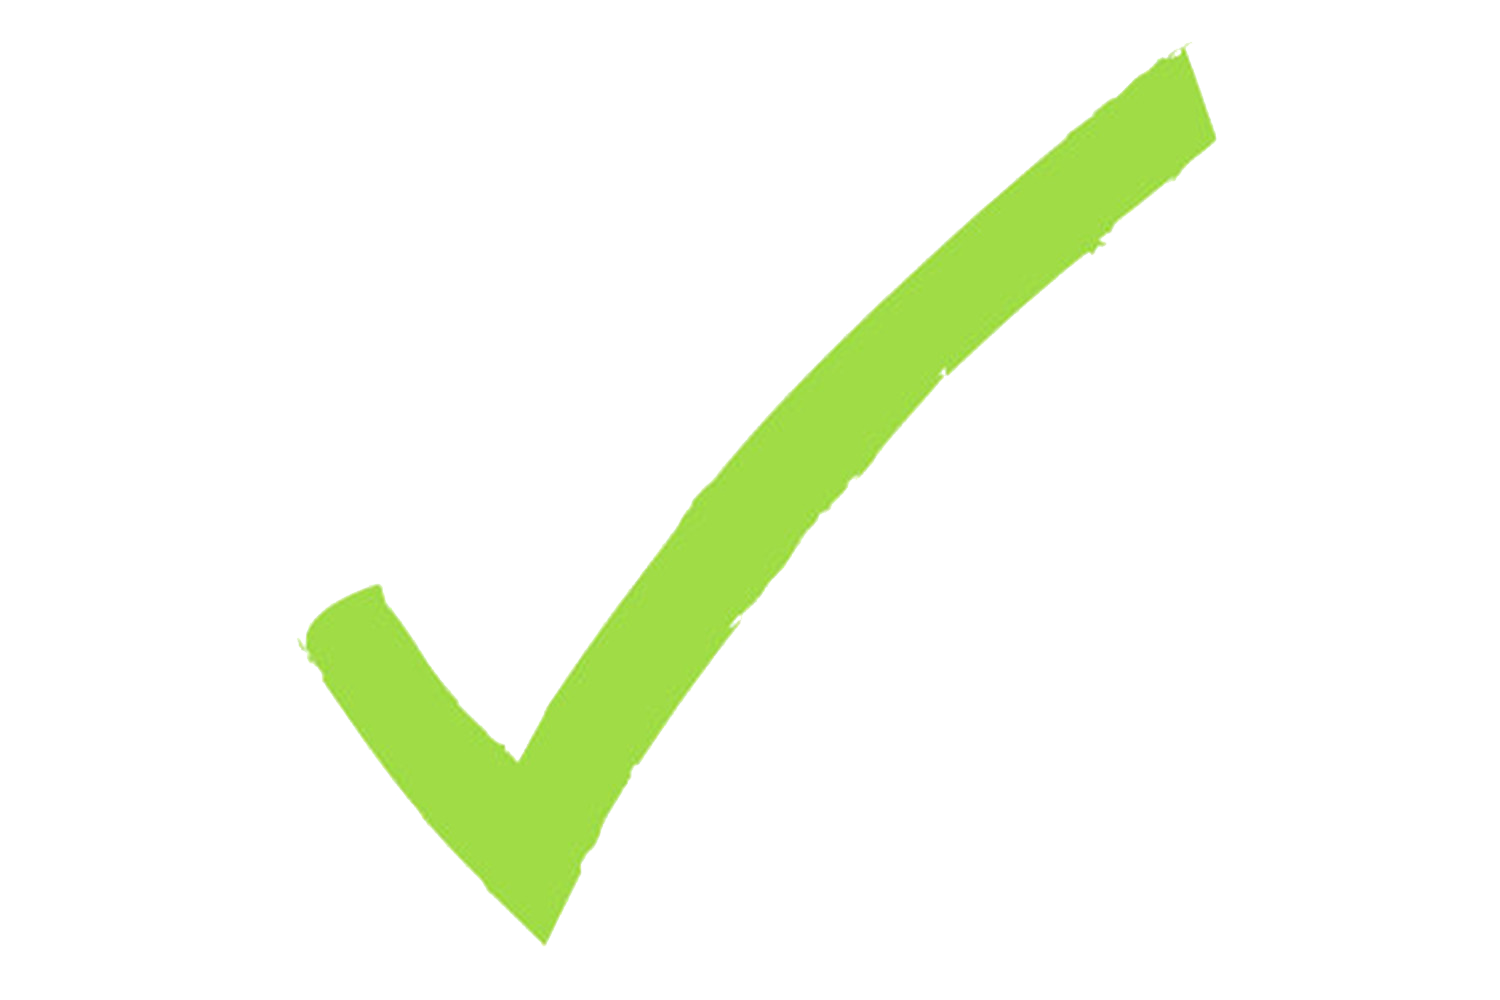
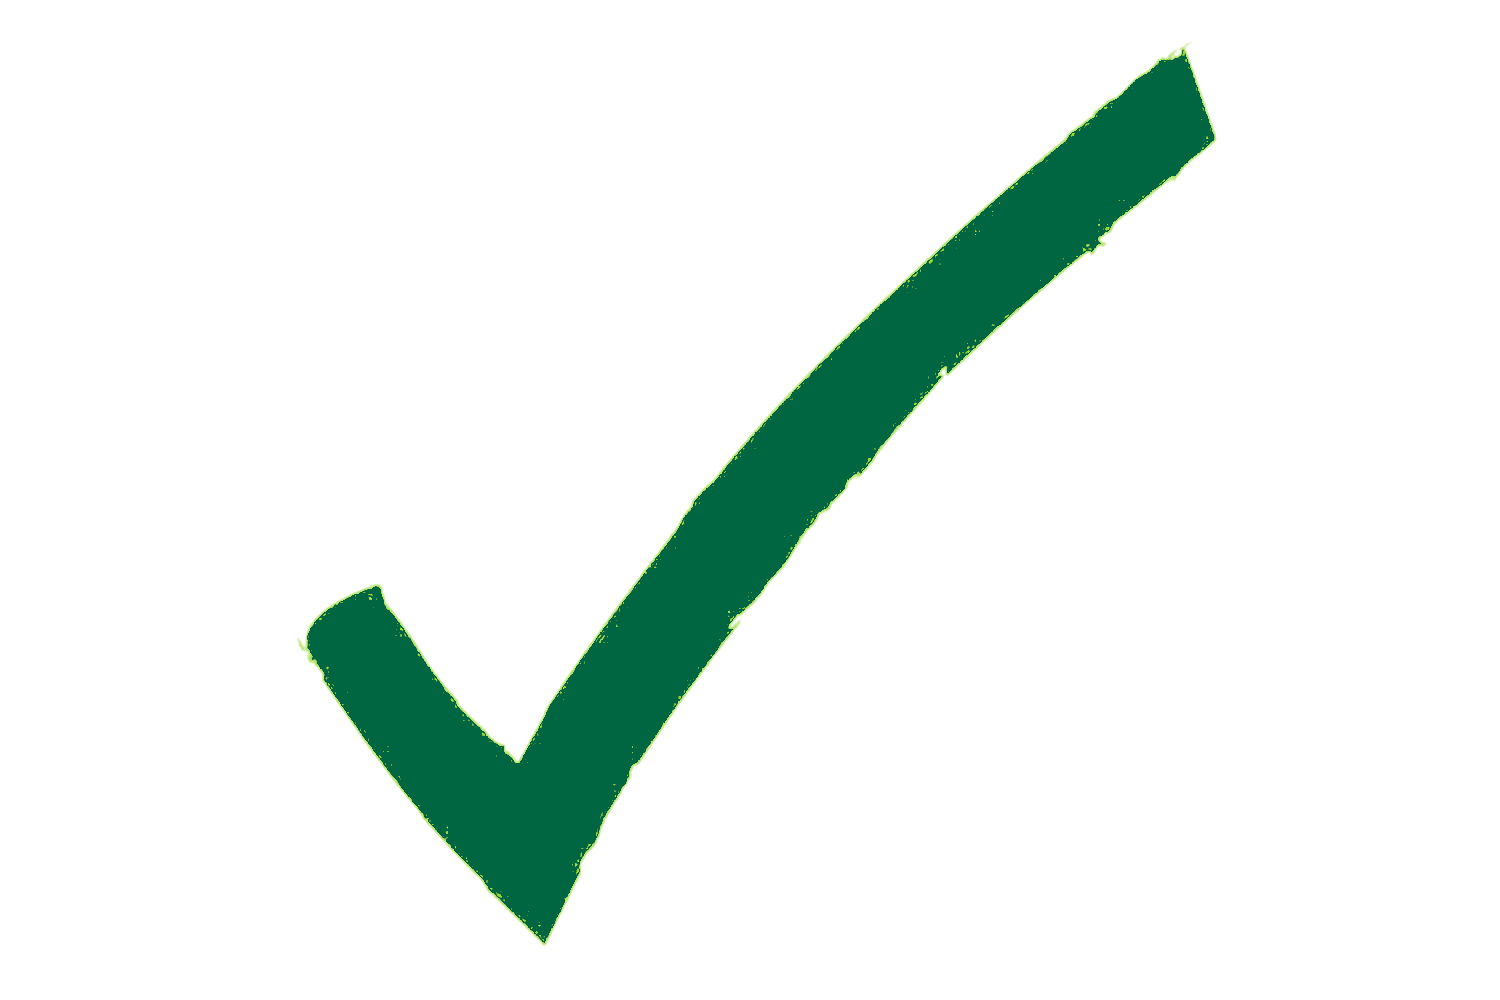
Mudanças no visual do dashboard e no componente Feedback

Changed region(s): [[0.184, 0.062, 0.828, 0.93]]

diff --git a/src/components/Dashboards/Dashboards.js b/src/components/Dashboards/Dashboards.js
@@ -1,5 +1,6 @@
 import React, { useEffect, useState } from 'react';
 import './Dashboards.css';
+import logo from '../../assets/logo1.png';
 import Scrollbar from 'react-scrollbars-custom';
 import { useHistory } from 'react-router-dom';
 
@@ -12,13 +13,15 @@ export default function Dashboards(props) {
         return url.split('/')[2];
     }
 
+    
     useEffect(() => {
         if(tipoUsuario === 'user-prova' && history.location.pathname !== '/prova/encerrar-prova'){
             mudaAtividade(formatarUrlParaAcao(history.location.pathname));
-        }else{
+        }else if(props.acoesUsuario !== undefined){
             mudaAtividade(history.location.pathname);
         }
     }, [history.location.pathname, acao]);
+    
     
     const mudaAtividade = (e) => {
         history.push(e);
@@ -30,12 +33,17 @@ export default function Dashboards(props) {
         }
         const elemento = document.getElementById(e);
         if(elemento !== null && elemento !== undefined)
-            elemento.classList.add('atual');
+        elemento.classList.add('atual');
     }
+    
+    if(props.acoesUsuario === undefined) return <div></div>;
 
     return (
         <div className="container-dash">
             <Scrollbar>
+                <div className="container-log-dash">
+                    <img src={logo} id="logo-dashboard"/>
+                </div>
                 <ul>
                     {props.acoesUsuario.map((e) => <li id={e.acao} onClick={() => mudaAtividade(e.acao)}>{e.texto}</li>)}
                 </ul>

diff --git a/src/routes.js b/src/routes.js
@@ -21,14 +21,13 @@ import ControllerMeusResultados from './controlers/ControllerMeusResultados';
 import ControllerAlunosCadastrados from './controlers/ControllerAlunosCadastrados';
 
 export default function Routes() {
-    //localStorage.clear();
     return (
         <BrowserRouter>
             <Route path="/" exact component={Login}/>
             <Route path="/autocadastro" exact component={Autocadastro}/>
             <Route path="/:slug" exact component={ControllerDashboard} />
-            {/* <Route path="/:slug/:slug" exact component={ControllerDashboard} /> */}
-            <Route path="/home" exact component={Feedback} />
+            
+            <Route path="/home" exact component={Home} />
 
             <Route path="/cadastrar-prova" exact component={CadastroProva} />
             <Route path="/cadastrar-questao" exact component={CadastroQuestoes} />
@@ -43,7 +42,9 @@ export default function Routes() {
 
             <Route path="/inserir-token" exact component={InserirToken} />
             <Route path="/prova/:slug" exact component={ControllerProva} />
+            <Route path="/editar-perfil" exact component={Home} />
             <Route path="/meus-resultados" exact component={ControllerMeusResultados} />
+            <Route path="/ranking-prova/:slug" exact component={ControllerDashboard} />
             <Route path="/ranking-prova/:slug" exact component={ControllerMeusResultados} />
 
             <Route path="/sair" exact component={Logout} />

diff --git a/src/components/CadastroProva/CadastroProva.js b/src/components/CadastroProva/CadastroProva.js
@@ -8,6 +8,8 @@ import { useHistory } from 'react-router-dom';
 
 
 
+//uso essa variável pra renderizar imagem no componente feedback
+let imgFeedback;
 export default function CadastroProva(props) {
     let history = useHistory();
     /* console.log(props.prova.id) */
@@ -79,8 +81,10 @@ export default function CadastroProva(props) {
         
         setEspera(false);
         if (response) {
+            imgFeedback = 'certo';
             setFeedback('Prova cadastrada com sucesso!');
         } else {
+            imgFeedback = 'errado';
             setFeedback('Problema ao cadastrar prova!');
         }
     }
@@ -106,8 +110,10 @@ export default function CadastroProva(props) {
 
         setEspera(false);
         if (response) {
+            imgFeedback = 'certo';
             setFeedback('Prova alterada com sucesso!');
         } else {
+            imgFeedback = 'errado';
             setFeedback('Problema ao alterar prova!');
         }
     }
@@ -150,7 +156,7 @@ export default function CadastroProva(props) {
                 limparCampos();
             setFeedback('');
         }, 2000)
-        return <Feedback msgPrimaria={feedback}/>
+        return <Feedback msgPrimaria={feedback} img={imgFeedback}/>
     }
 
     if (espera) return <TelaEspera />

diff --git a/src/components/Prova/Prova.js b/src/components/Prova/Prova.js
@@ -84,10 +84,7 @@ export default function Prova(props) {
             }
             idQuestao = props.questao[numeroQuestao].id;
         }
-        //props.mudarAtividade('questao-' + numeroQuestao);
         //separa a url para gerenciar o estado
-        //setAcao(formatarUrlParaAcao(history.location.pathname));
-        //separa o estado para trocar o número da questão
         if (history.location.pathname !== '/prova/encerrar-prova')
             setNumero(setarNumeroPelaUrl(formatarUrlParaAcao(history.location.pathname)));
         else {
@@ -175,7 +172,7 @@ export default function Prova(props) {
         const mensagemPrimaria = "Parabéns " + localStorage.getItem('nomeUsuario') + ", você concluiu a prova!";
         const mensagemSecundaria = "Você acertou " + notaAluno + "% das questões!";
         setTimeout(() => props.history.push('/home'), 3000);
-        return <Feedback msgPrimaria={mensagemPrimaria} msgSecundaria={mensagemSecundaria} />
+        return <Feedback msgPrimaria={mensagemPrimaria} msgSecundaria={mensagemSecundaria} img='certo'/>
     }
 
     if (execucao)

diff --git a/src/components/Feedback/Feedback.js b/src/components/Feedback/Feedback.js
@@ -1,16 +1,27 @@
 import React from 'react';
 import './Feedback.css';
-import certo from '../../assets/certo2.png';
+import certo from '../../assets/certo.png';
+import errado from '../../assets/errado.png';
 
 export default function Feedback(props) {
+    let imagem;
+
+    if(props.img === 'certo'){
+        imagem = certo;
+    }else if(props.img === 'errado'){
+        imagem = errado;
+    }else {
+        imagem = null;
+    }
 
     return (
         <div className="container-resposta">
             <div className="container-texto">
-                <h1>{props.msgPrimaria}</h1>
-                <h2>{props.msgSecundaria}</h2>
-                {/* <button className="button" onClick={props.funcaoBotao}>{props.textoBotao}</button> */}
-                <img id="img-feedback" src={certo} />
+                {imagem !== null && <img id="img-feedback" src={imagem} />}
+                <div>
+                    <h1>{props.msgPrimaria}</h1>
+                    <h2>{props.msgSecundaria}</h2>
+                </div>
             </div>
         </div>
     );

diff --git a/src/components/CadastroQuestoes/CadastroQuestoes.js b/src/components/CadastroQuestoes/CadastroQuestoes.js
@@ -4,6 +4,8 @@ import api from '../../services/api';
 import Feedback from '../Feedback/Feedback';
 import TelaEspera from '../TelaEspera/TelaEspera';
 
+//uso essa variável pra renderizar imagem no componente feedback
+let imgFeedback;
 export default function CadastroQuestoes() {
     const [enunciado, setEnunciado] = useState(''),
         [alternativa1, setAlternativa1] = useState(''),
@@ -55,8 +57,10 @@ export default function CadastroQuestoes() {
 
         setEspera(false);
         if (response.data.Erro) {
+            imgFeedback = 'errado';
             setFeedback(response.data.Erro)
         } else {
+            imgFeedback = 'certo';
             setFeedback('Questão cadastrada com sucesso');
             limpar();
         }
@@ -75,7 +79,7 @@ export default function CadastroQuestoes() {
 
     if (feedback !== '') {
         setTimeout(() => setFeedback(''), 2000)
-        return <Feedback msgPrimaria={feedback} />
+        return <Feedback msgPrimaria={feedback} img={imgFeedback} />
     }
 
     if (espera) return <TelaEspera />

diff --git a/src/components/Autocadastro/Autocadastro.js b/src/components/Autocadastro/Autocadastro.js
@@ -9,6 +9,8 @@ import logo from '../../assets/logo1.png';
 import TelaEspera from '../TelaEspera/TelaEspera';
 import Feedback from '../Feedback/Feedback';
 
+//uso essa variável pra renderizar imagem no componente feedback
+let imgFeedback;
 export default function Autocadastro({ history }) {
     const [nome, setNome] = useState(''),
         [email, setEmail] = useState(''),
@@ -50,8 +52,10 @@ export default function Autocadastro({ history }) {
 
         setEspera(false)
         if (response.data.Erro) {
+            imgFeedback = 'errado';
             setFeedback(response.data.Erro);
         } else {
+            imgFeedback = 'certo';
             setFeedback('Usuário cadastrado com sucesso! Faça o login!');
         }
 
@@ -70,7 +74,7 @@ export default function Autocadastro({ history }) {
             }
             setFeedback('');
         }, 2000)
-        return <Feedback msgPrimaria={feedback}/>
+        return <Feedback msgPrimaria={feedback} img={imgFeedback}/>
     } 
 
     return (

diff --git a/src/components/Feedback/Feedback.css b/src/components/Feedback/Feedback.css
@@ -8,6 +8,7 @@
 
 .container-texto {
     border-radius: 1em;
+    display: flex;
     text-align: center;
     padding: 2em;
     background-color: rgba(245, 245, 245, 0.5);
@@ -20,21 +21,8 @@
     margin: 0.5em;
 }
 
-.button {
-    margin-top: 2em;
-    width: 100%; 
-    border: 0;
-    border-radius: 4px;
-    height: 48px;
-    font-size: 25px; 
-    background: #006641;
-    font-weight: bold;
-    color: #FFF;
-    cursor: pointer;
-    font-family: 'Asap', sans-serif;    
-}
-
 #img-feedback {
-    width: 20em;
-    height: 20em;
+    width: 5em;
+    height: 3em;
+    margin-top: 1em;
 }

diff --git a/src/components/Dashboards/Dashboards.css b/src/components/Dashboards/Dashboards.css
@@ -5,17 +5,27 @@
     flex-direction: column;
     justify-content: flex-start;
     align-items: flex-start;
-    padding-top: 2em;
+    padding-top: 0em;
     background-color: rgba(245, 245, 245, 1);
+}
+.container-log-dash {
+    display: flex;
+    justify-content: center;
+}
+#logo-dashboard {
+    width: 8em;
+    height: 8em;
+    align-self: center;
 }
 
 ul {
     width: 100%;
+    margin-top: 1em;
 }
 
 ul li {
     list-style: none;
-    padding: 1.5em 2em;
+    padding: 1em 2em;
     font-size: 16pt;
     font-weight: 400;
 }

diff --git a/src/controlers/ControllerProvasAbertas.js b/src/controlers/ControllerProvasAbertas.js
@@ -43,6 +43,7 @@ export default function ControllerProvasAbertas({ history }){
             <Feedback 
                 msgPrimaria="Prova excluída com sucesso!"
                 funcaoBotao={confirmarFeedback}
+                img={'certo'}
                 />
         );
     }

diff --git a/src/components/Dashboards/ControllerDashboard.js b/src/components/Dashboards/ControllerDashboard.js
@@ -24,8 +24,6 @@ export default function ControllerDashboard(props) {
     } else if (tipoUsuario === 'user-prova') {
         trocarAcao = (e) => setAcao(e);
         acoes = acoesProva();
-    } else {
-        history.push('/');
     }
 
     return (

diff --git a/src/components/InfoProva/InfoProva.css b/src/components/InfoProva/InfoProva.css
@@ -40,7 +40,8 @@
     border-radius: 4px;
     height: 48px;
     font-size: 25px; 
-    background: #006641;
+    background-color: #4e4e4e;
+    /* background: #006641; */
     font-weight: bold;
     color: #FFF;
     cursor: pointer;
